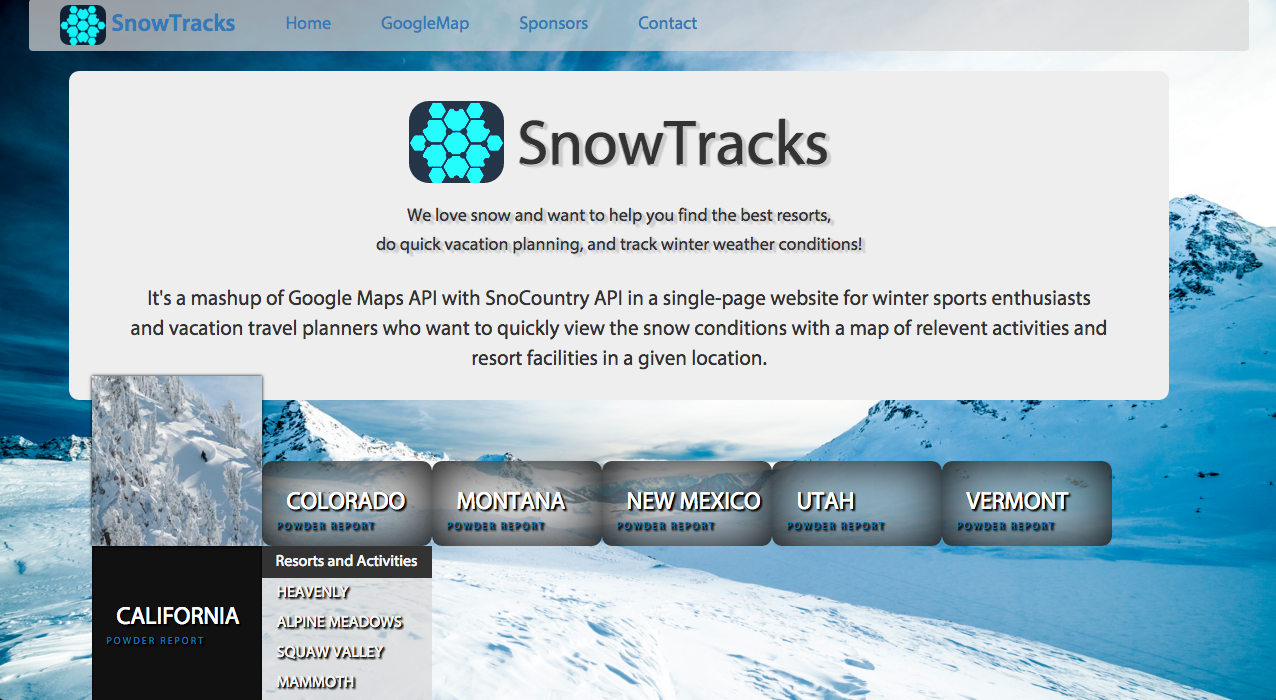
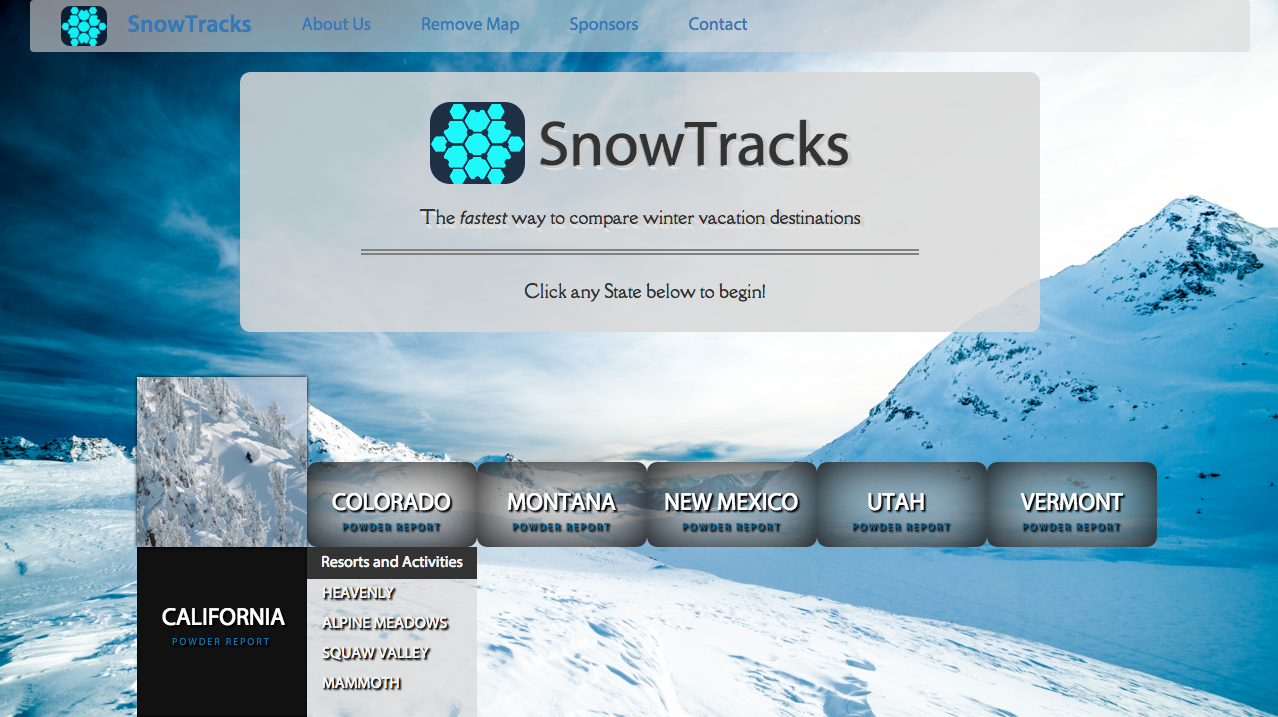
Update README.md with new demo images.

diff --git a/README.md b/README.md
@@ -3,9 +3,11 @@ We love snow and want to help you find the best resorts, do quick vacation plann
 
 <img src="images/snowtracks-homepage-demo.png">
 
-###**Initial Plans for this App** 
+###**About this App** 
 **It's a** mashup of Google Maps API with SnoCountry API in a single-page website **for** winter sports enthusiasts and vacation travel planners 
 **who** want to quickly view the snow conditions with a map of relevent activities and resort facilities in a given location.
+
+<img src="images/snowtracks-about-demo.png">
 
 >The Google Maps API allow for the embedding of Google Maps onto web pages of outside developers, using a simple JavaScript interface or a Flash interface.
 
